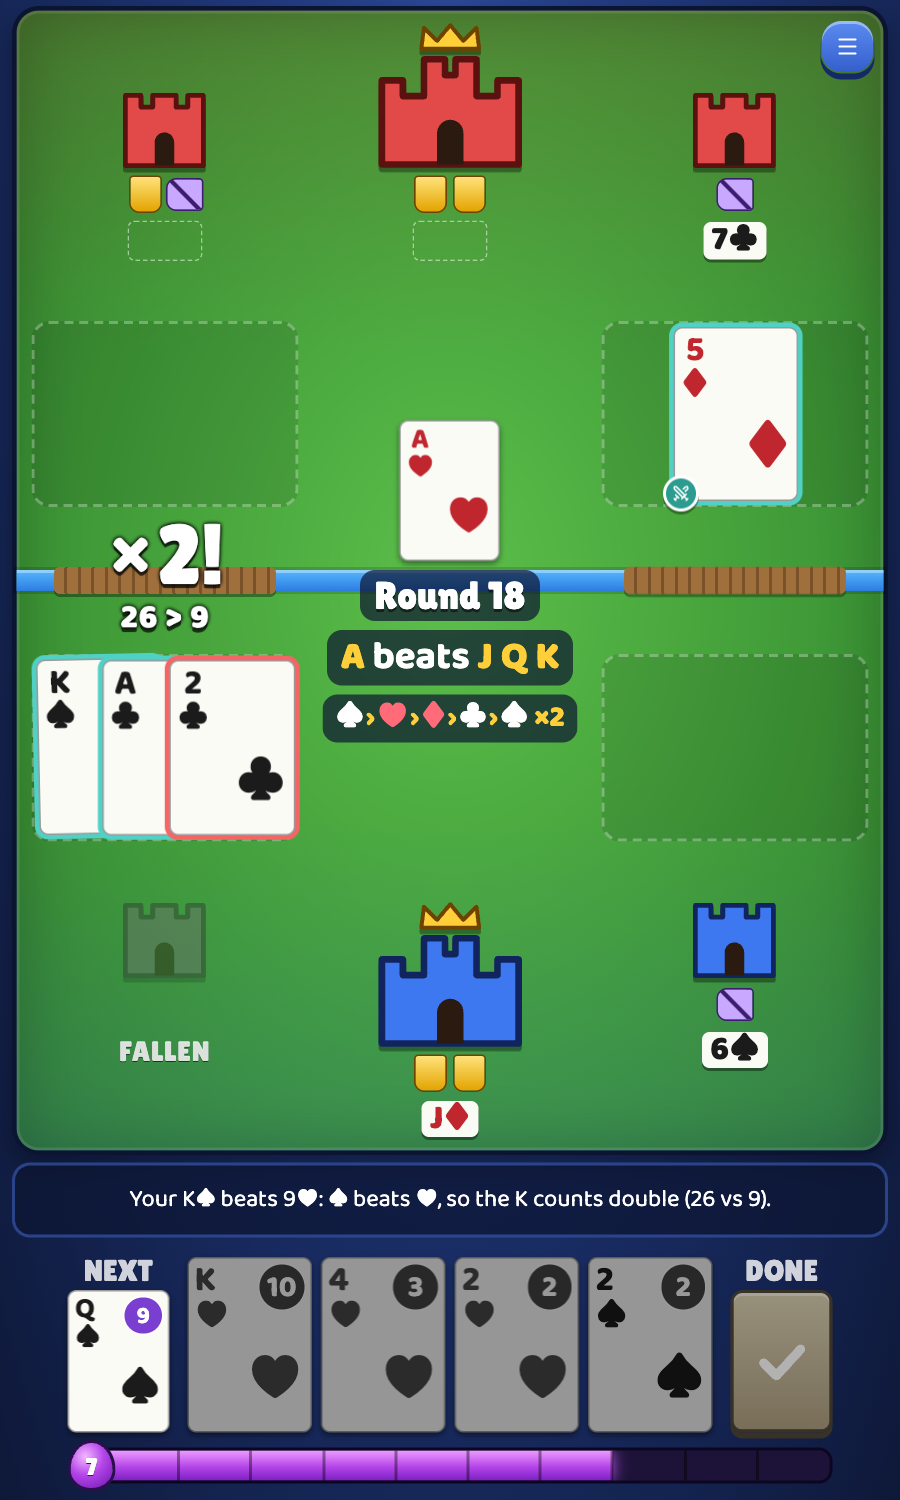
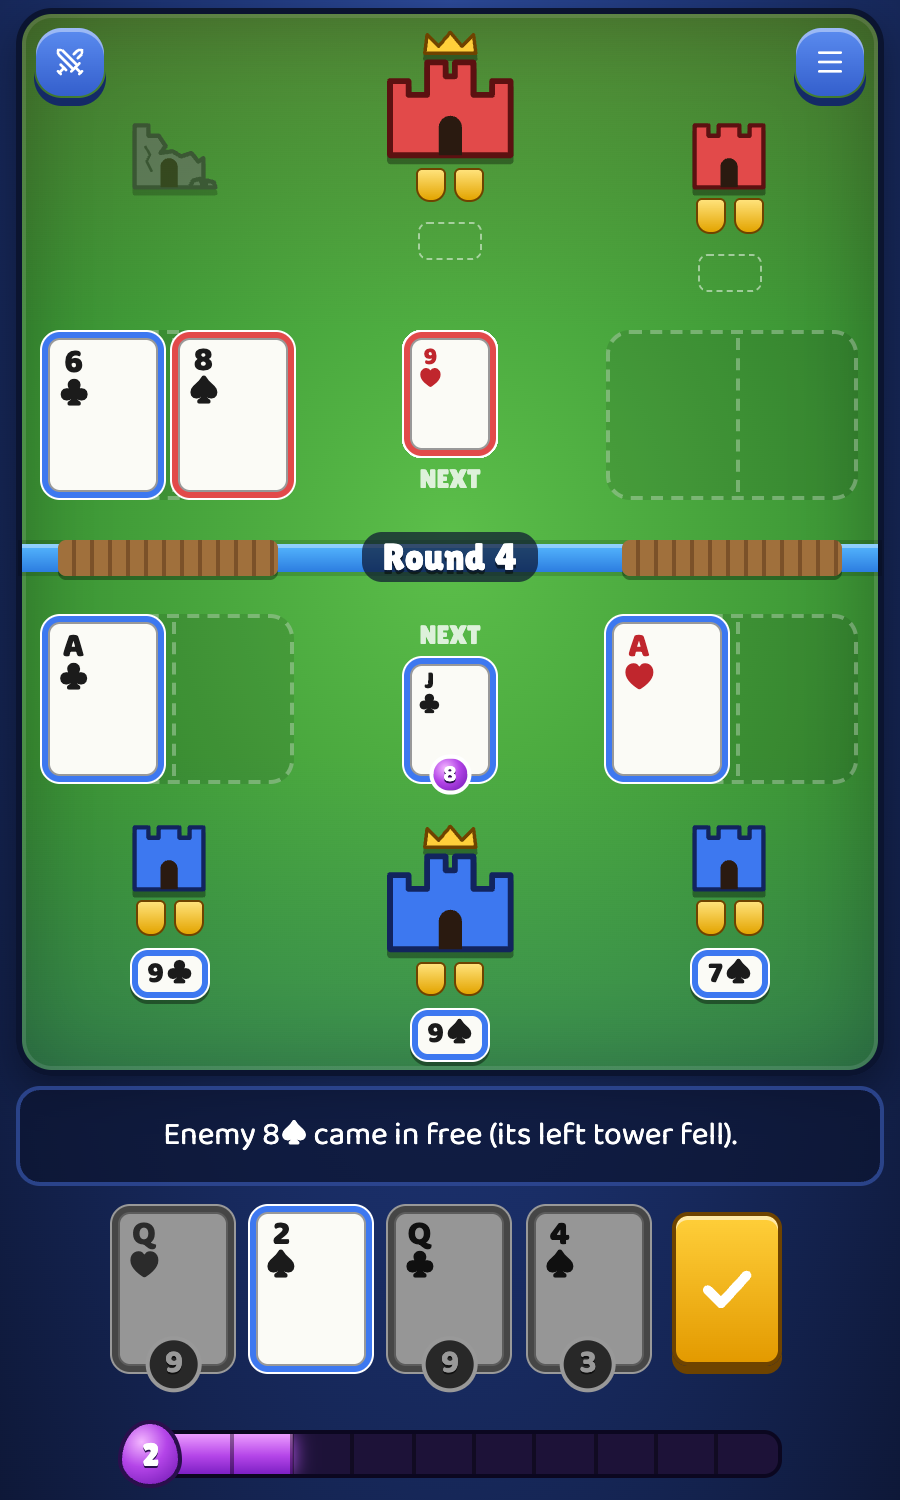
Screenshots: arena, deck and real-cards setup retaken with the current look and the Suitkeep name; README arena description updated

diff --git a/README.md b/README.md
@@ -7,7 +7,7 @@
 Free, no sign-up, works on phones and desktops.
 
 <p align="center">
-  <img src="docs/screenshots/arena.png" alt="Suitkeep on screen: red enemy castles at the top with cracked tower cards, blue castles at the bottom with one fallen, your card attacking an enemy tower, a ×2 suit bonus pop-up in the left lane, the enemy's face-up next card in the middle and your hand with the next card and the Done button below" width="300" />
+  <img src="docs/screenshots/arena.png" alt="Suitkeep on screen: red enemy castles at the top with the left one fallen, blue castles at the bottom, your cards in both lanes, an enemy card that came in free, the enemy's face-up next card in the middle, and your hand with the Done button and elixir bar below" width="300" />
   &nbsp;
   <img src="docs/screenshots/title.png" alt="Suitkeep title screen with a gold crown logo and the Play, Play with real cards and How to play buttons" width="520" />
 </p>
